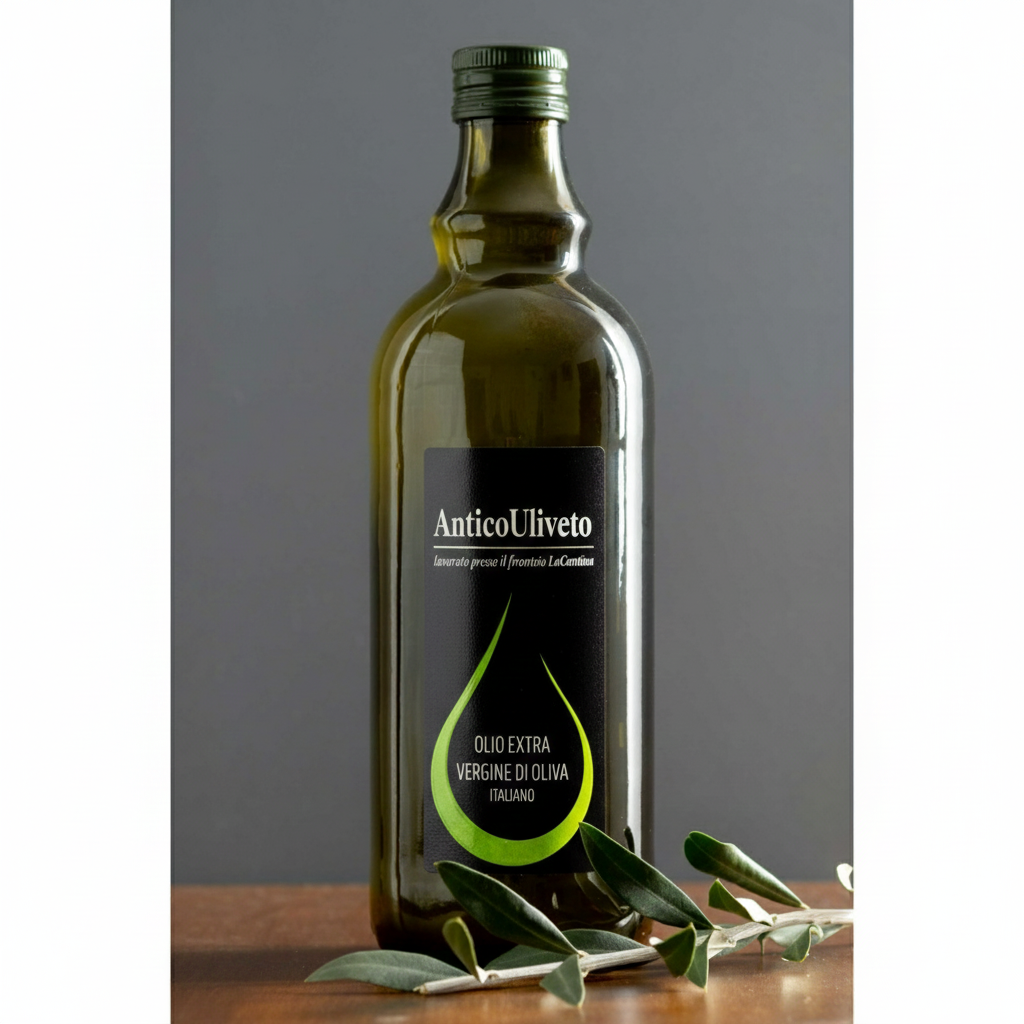
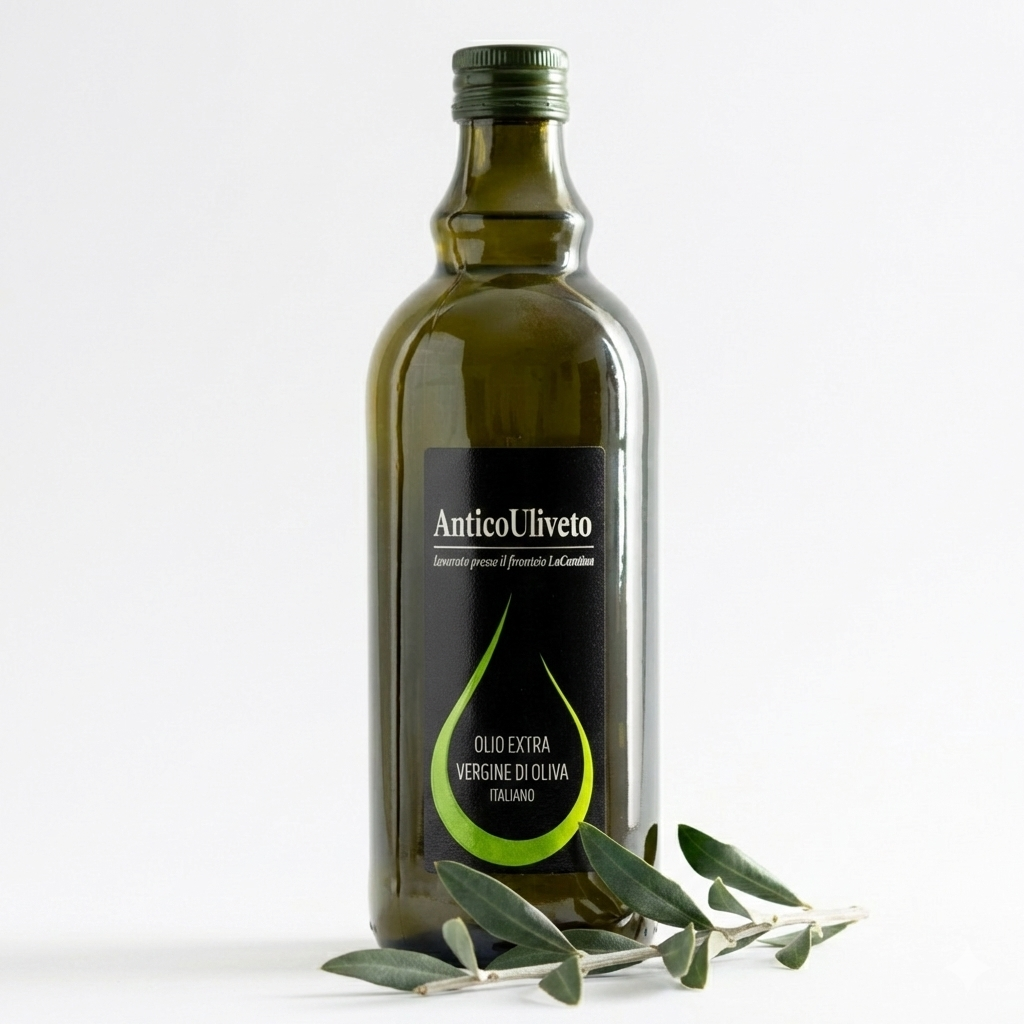
modifica di shop, aggiornamento database e modifica immagini

diff --git a/LaCantinav2/src/main/webapp/CSS/shopcss.css b/LaCantinav2/src/main/webapp/CSS/shopcss.css
@@ -58,8 +58,10 @@ hr { border-color: #eee !important; opacity: 0.5; }
 
 .product-img-index {
     width: 100%;
-    height: 220px; /* Altezza fissa identica all'index */
-    object-fit: cover;
+    height: 220px; /* Mantiene l'altezza fissa per allineare le card */
+    object-fit: contain; /* <--- MOSTRA TUTTA L'IMMAGINE ridimensionandola */
+    background-color: #ffffff; /* Assicura sfondo bianco se l'immagine è stretta */
+    padding: 10px; /* (Opzionale) Dà un po' di respiro all'immagine dai bordi */
     border-bottom: 1px solid #f0f0f0;
     transition: transform 0.5s ease;
 }

diff --git a/LaCantinav2/src/main/java/it/unisa/lacantina/util/ConnectToDB.java b/LaCantinav2/src/main/java/it/unisa/lacantina/util/ConnectToDB.java
@@ -8,7 +8,7 @@ public class ConnectToDB
 {
 	private static final String URL = "jdbc:mysql://localhost:3306/LaCantina";
 	private static final String USER = "root";
-	private static final String PASSWORD = "Gb162004";
+	private static final String PASSWORD = "";
 	
 	// Metodo per ottenere la connessione al database
 	public static Connection getConnection() throws SQLException{
